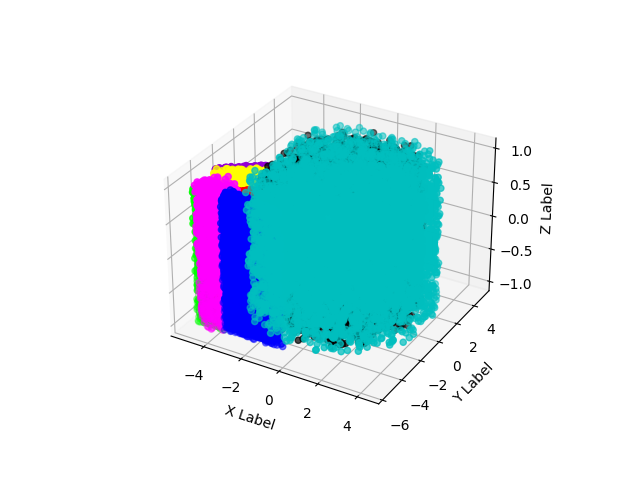
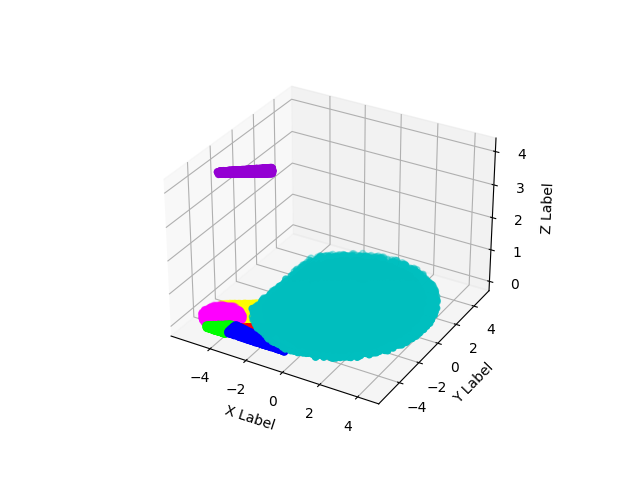
gdfg

diff --git a/3d_dich.py b/3d_dich.py
@@ -26,12 +26,11 @@ x5, y5, z5 = [], [], []
 x6, y6, z6 = [], [], []
 x7, y7, z7 = [], [], []
 
-phi = np.linspace(0, 2*np.pi, N)
 
 for m, zlow, zhigh in [(',', -1, 1)]:
     xss = randrange(N, -3.7, 3.7)
     yss = randrange(N, -4.3, 4.3)
-    zss = randrange(N, zlow, zhigh)
+    zss = randrange(N, 0, 0.1)
     for i in xss:
         if i >= -3.2  and (xss[n]**2)/(3.7**2) + (yss[n]**2)/(4.3**2) <= 1:
             xs.append(xss[n])
@@ -43,11 +42,11 @@ for m, zlow, zhigh in [(',', -1, 1)]:
 
     x1s = randrange(N//5, -1, 1)
     y1s = randrange(N//5, -1, 1)
-    z1s = randrange(N//5, zlow, zhigh)
+    z1s = randrange(N//5, 0, 0.1)
     for i in x1s:
         if x1s[a]**2 + y1s[a]**2 <= 1:
-            x1.append(x1s[a]-4.1)
-            y1.append(y1s[a]-4.6)
+            x1.append(x1s[a]-4.5)
+            y1.append(y1s[a]-4.1)
             z1.append(z1s[a])
             a += 1
         else:
@@ -55,12 +54,12 @@ for m, zlow, zhigh in [(',', -1, 1)]:
 
     x2s = randrange(N, 0, 0.35)
     y2s = randrange(N, 0, 2.6)
-    z2s = randrange(N, zlow, zhigh)
+    z2s = randrange(N, 0, 0.1)
     for i in x2s:
         if y2s[k]/(0.35-x2s[k]) <= 2.6/0.35:
             x2.append((x2s[k]**2+y2s[k]**2)**0.5*np.cos(np.arctan(y2s[k]/x2s[k])+2.13)-2.9)
             y2.append((x2s[k]**2+y2s[k]**2)**0.5*np.sin(np.arctan(y2s[k]/x2s[k])+2.13)-1.8)
-            z2.append(z2s[k])
+            z2.append(z2s[k]+4)
 
             x3.append(((0.35-x2s[k])**2+y2s[k]**2)**0.5*np.cos(np.arctan(y2s[k]/(0.35-x2s[k]))+2.13)-1.7)
             y3.append(((0.35-x2s[k])**2+y2s[k]**2)**0.5*np.sin(np.arctan(y2s[k]/(0.35-x2s[k]))+2.13)-4.1)
@@ -71,7 +70,7 @@ for m, zlow, zhigh in [(',', -1, 1)]:
     
     x4s = randrange(N, 0, 2.5)
     y4s = randrange(N, 0, 2)
-    z4s = randrange(N, zlow, zhigh)
+    z4s = randrange(N, 0, 0.1)
     for i in x4s:
         x4.append((x4s[b]**2+y4s[b]**2)**0.5*np.cos(0.56+np.arctan(y4s[b]/x4s[b]))-4.05)
         y4.append((x4s[b]**2+y4s[b]**2)**0.5*np.sin(0.56+np.arctan(y4s[b]/x4s[b]))-4.9)
@@ -80,7 +79,7 @@ for m, zlow, zhigh in [(',', -1, 1)]:
 
     xs5 = randrange(N, -4.4, 4.4)
     ys5 = randrange(N, -5, 5)
-    zs5 = randrange(N, zlow, zhigh)
+    zs5 = randrange(N, 0, 0.1)
     for i in xs5:
         if i >= -3.6 and (xs5[c]**2)/(4.4**2) + (ys5[c]**2)/(5**2) <= 1:
             x5.append(xs5[c])
@@ -92,22 +91,22 @@ for m, zlow, zhigh in [(',', -1, 1)]:
 
     x6s = randrange(N, 0, 3.2)
     y6s = randrange(N, 0, 0.7)
-    z6s = randrange(N, zlow, zhigh)    
+    z6s = randrange(N, 0, 0.1)    
     for i in x6s:
         if y6s[d]/(3.2-x6s[d]) <= 0.7/3.2:
             x6.append(x6s[d]-3.5)
-            y6.append(y6s[d]-5.3)
+            y6.append(y6s[d]-5.2)
             z6.append(z6s[d])
             d += 1
         else:
             d += 1
 
-    x7s = randrange(N, 0, 1.5)
+    x7s = randrange(N, 0, 1.1)
     y7s = randrange(N, 0, 0.7)
-    z7s = randrange(N, zlow, zhigh)
+    z7s = randrange(N, 0, 0.1)
     for i in x7s:
-        if y7s[e]/x7s[e] <= 0.7/1.5:
-            x7.append(x7s[e]-5)
+        if y7s[e]/x7s[e] <= 0.7/1:
+            x7.append(x7s[e]-4.7)
             y7.append(y7s[e]-5.3)
             z7.append(z7s[e])
             e += 1

diff --git a/tester.py b/tester.py
@@ -26,12 +26,11 @@ x5, y5, z5 = [], [], []
 x6, y6, z6 = [], [], []
 x7, y7, z7 = [], [], []
 
-phi = np.linspace(0, 2*np.pi, N)
 
 for m, zlow, zhigh in [(',', -1, 1)]:
     xss = randrange(N, -3.7, 3.7)
     yss = randrange(N, -4.3, 4.3)
-    zss = randrange(N, zlow, zhigh)
+    zss = randrange(N, 0, 0.1)
     for i in xss:
         if i >= -3.2  and (xss[n]**2)/(3.7**2) + (yss[n]**2)/(4.3**2) <= 1:
             xs.append(xss[n])
@@ -43,11 +42,11 @@ for m, zlow, zhigh in [(',', -1, 1)]:
 
     x1s = randrange(N//5, -1, 1)
     y1s = randrange(N//5, -1, 1)
-    z1s = randrange(N//5, zlow, zhigh)
+    z1s = randrange(N//5, 0, 0.1)
     for i in x1s:
         if x1s[a]**2 + y1s[a]**2 <= 1:
-            x1.append(x1s[a]-4.1)
-            y1.append(y1s[a]-4.6)
+            x1.append(x1s[a]-4.5)
+            y1.append(y1s[a]-4.1)
             z1.append(z1s[a])
             a += 1
         else:
@@ -55,12 +54,12 @@ for m, zlow, zhigh in [(',', -1, 1)]:
 
     x2s = randrange(N, 0, 0.35)
     y2s = randrange(N, 0, 2.6)
-    z2s = randrange(N, zlow, zhigh)
+    z2s = randrange(N, 0, 0.1)
     for i in x2s:
         if y2s[k]/(0.35-x2s[k]) <= 2.6/0.35:
             x2.append((x2s[k]**2+y2s[k]**2)**0.5*np.cos(np.arctan(y2s[k]/x2s[k])+2.13)-2.9)
             y2.append((x2s[k]**2+y2s[k]**2)**0.5*np.sin(np.arctan(y2s[k]/x2s[k])+2.13)-1.8)
-            z2.append(z2s[k])
+            z2.append(z2s[k]+4)
 
             x3.append(((0.35-x2s[k])**2+y2s[k]**2)**0.5*np.cos(np.arctan(y2s[k]/(0.35-x2s[k]))+2.13)-1.7)
             y3.append(((0.35-x2s[k])**2+y2s[k]**2)**0.5*np.sin(np.arctan(y2s[k]/(0.35-x2s[k]))+2.13)-4.1)
@@ -71,7 +70,7 @@ for m, zlow, zhigh in [(',', -1, 1)]:
     
     x4s = randrange(N, 0, 2.5)
     y4s = randrange(N, 0, 2)
-    z4s = randrange(N, zlow, zhigh)
+    z4s = randrange(N, 0, 0.1)
     for i in x4s:
         x4.append((x4s[b]**2+y4s[b]**2)**0.5*np.cos(0.56+np.arctan(y4s[b]/x4s[b]))-4.05)
         y4.append((x4s[b]**2+y4s[b]**2)**0.5*np.sin(0.56+np.arctan(y4s[b]/x4s[b]))-4.9)
@@ -80,7 +79,7 @@ for m, zlow, zhigh in [(',', -1, 1)]:
 
     xs5 = randrange(N, -4.4, 4.4)
     ys5 = randrange(N, -5, 5)
-    zs5 = randrange(N, zlow, zhigh)
+    zs5 = randrange(N, 0, 0.1)
     for i in xs5:
         if i >= -3.6 and (xs5[c]**2)/(4.4**2) + (ys5[c]**2)/(5**2) <= 1:
             x5.append(xs5[c])
@@ -92,22 +91,22 @@ for m, zlow, zhigh in [(',', -1, 1)]:
 
     x6s = randrange(N, 0, 3.2)
     y6s = randrange(N, 0, 0.7)
-    z6s = randrange(N, zlow, zhigh)    
+    z6s = randrange(N, 0, 0.1)    
     for i in x6s:
         if y6s[d]/(3.2-x6s[d]) <= 0.7/3.2:
             x6.append(x6s[d]-3.5)
-            y6.append(y6s[d]-5.3)
+            y6.append(y6s[d]-5.2)
             z6.append(z6s[d])
             d += 1
         else:
             d += 1
 
-    x7s = randrange(N, 0, 1.5)
+    x7s = randrange(N, 0, 1.1)
     y7s = randrange(N, 0, 0.7)
-    z7s = randrange(N, zlow, zhigh)
+    z7s = randrange(N, 0, 0.1)
     for i in x7s:
-        if y7s[e]/x7s[e] <= 0.7/1.5:
-            x7.append(x7s[e]-5)
+        if y7s[e]/x7s[e] <= 0.7/1:
+            x7.append(x7s[e]-4.7)
             y7.append(y7s[e]-5.3)
             z7.append(z7s[e])
             e += 1
